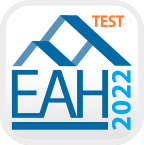
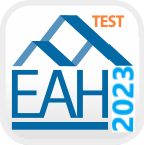
Ïconos provisorios y comento los formularios de tenencia mascotas en sw_manifest .

Changed region(s): [[0.75, 0.3034, 0.9444, 0.9103]]

diff --git a/eah2023/sw-manifest.js b/eah2023/sw-manifest.js
@@ -43,8 +43,8 @@ var urlsToCache = [
 '../eah2023/eah2023.php?hacer=desplegar_formulario&todo={"tra_ope":"eah2023","tra_for":"A1","tra_mat":""}',
 '../eah2023/eah2023.php?hacer=desplegar_formulario&todo={"tra_ope":"eah2023","tra_for":"I1","tra_mat":""}',
 // '../eah2023/eah2023.php?hacer=desplegar_formulario&todo={"tra_ope":"eah2023","tra_for":"PMD","tra_mat":""}',
-'../eah2023/eah2023.php?hacer=desplegar_formulario&todo={"tra_ope":"eah2023","tra_for":"PG1","tra_mat":""}',
-'../eah2023/eah2023.php?hacer=desplegar_formulario&todo={"tra_ope":"eah2023","tra_for":"PG1","tra_mat":"M"}',
+//'../eah2023/eah2023.php?hacer=desplegar_formulario&todo={"tra_ope":"eah2023","tra_for":"PG1","tra_mat":""}',
+//'../eah2023/eah2023.php?hacer=desplegar_formulario&todo={"tra_ope":"eah2023","tra_for":"PG1","tra_mat":"M"}',
 // '../eah2023/eah2023.php?hacer=desplegar_formulario&todo={"tra_ope":"eah2023","tra_for":"GH","tra_mat":""}',
 '../eah2023/eah2023.php?hacer=desplegar_formulario&todo={"tra_ope":"eah2023","tra_for":"SUP","tra_mat":""}',
 '../tedede/compatibilidad.js ',
